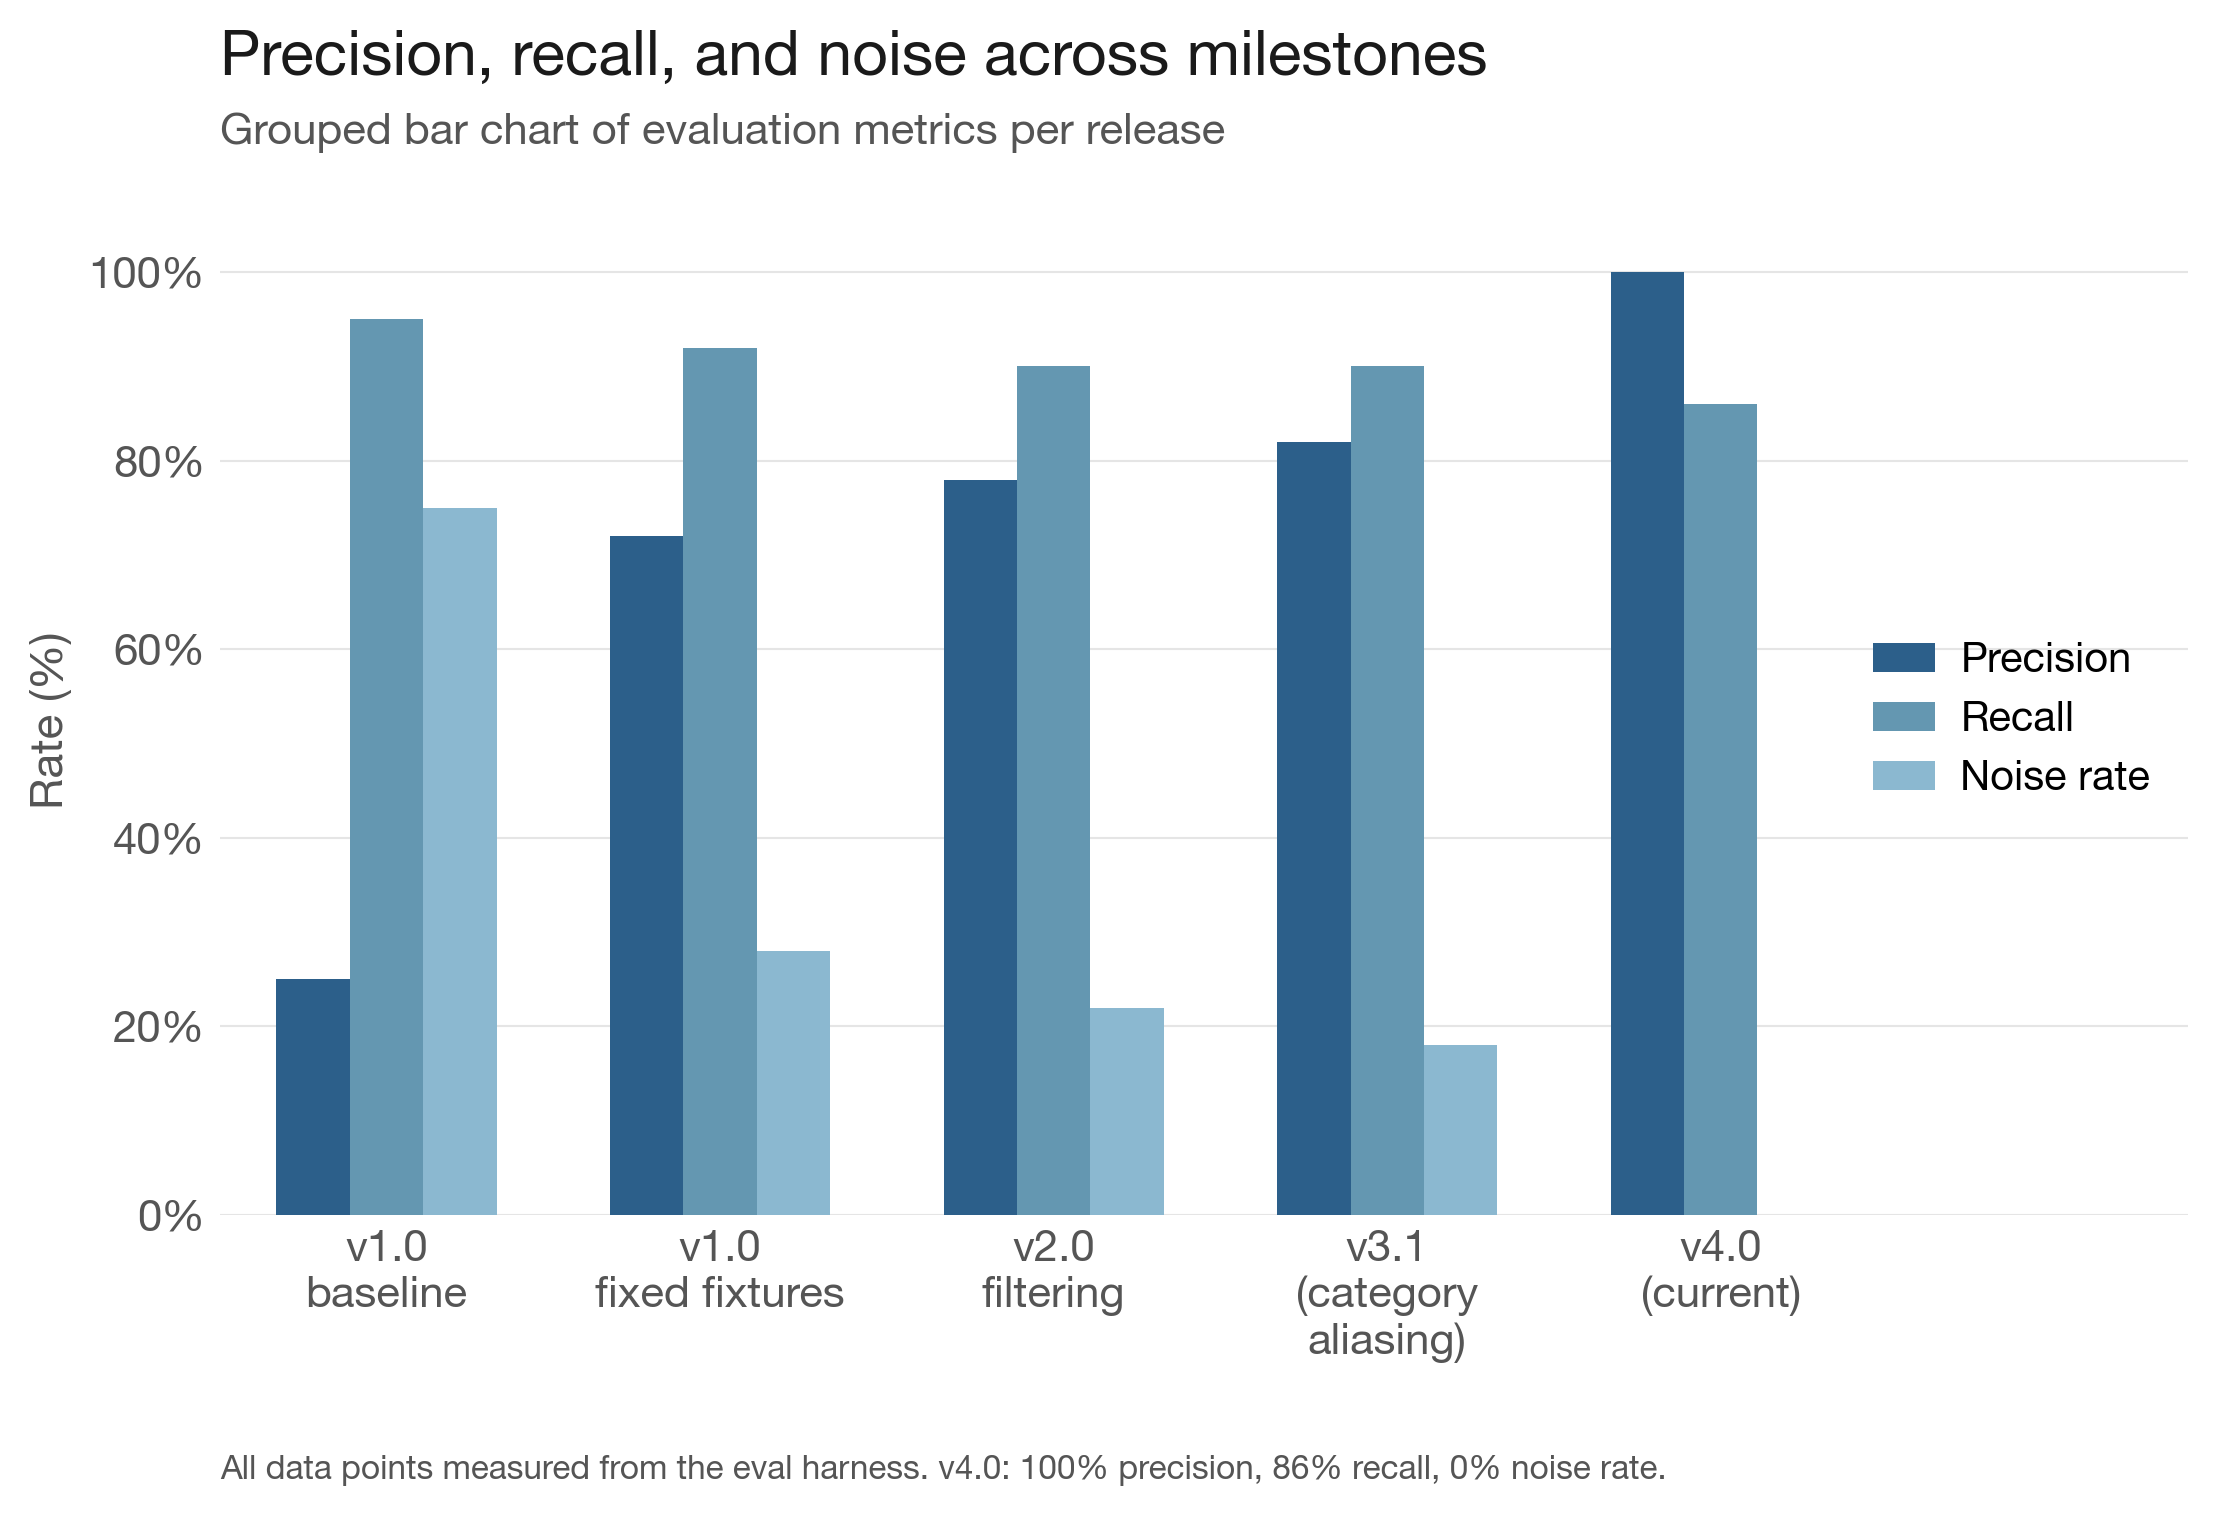
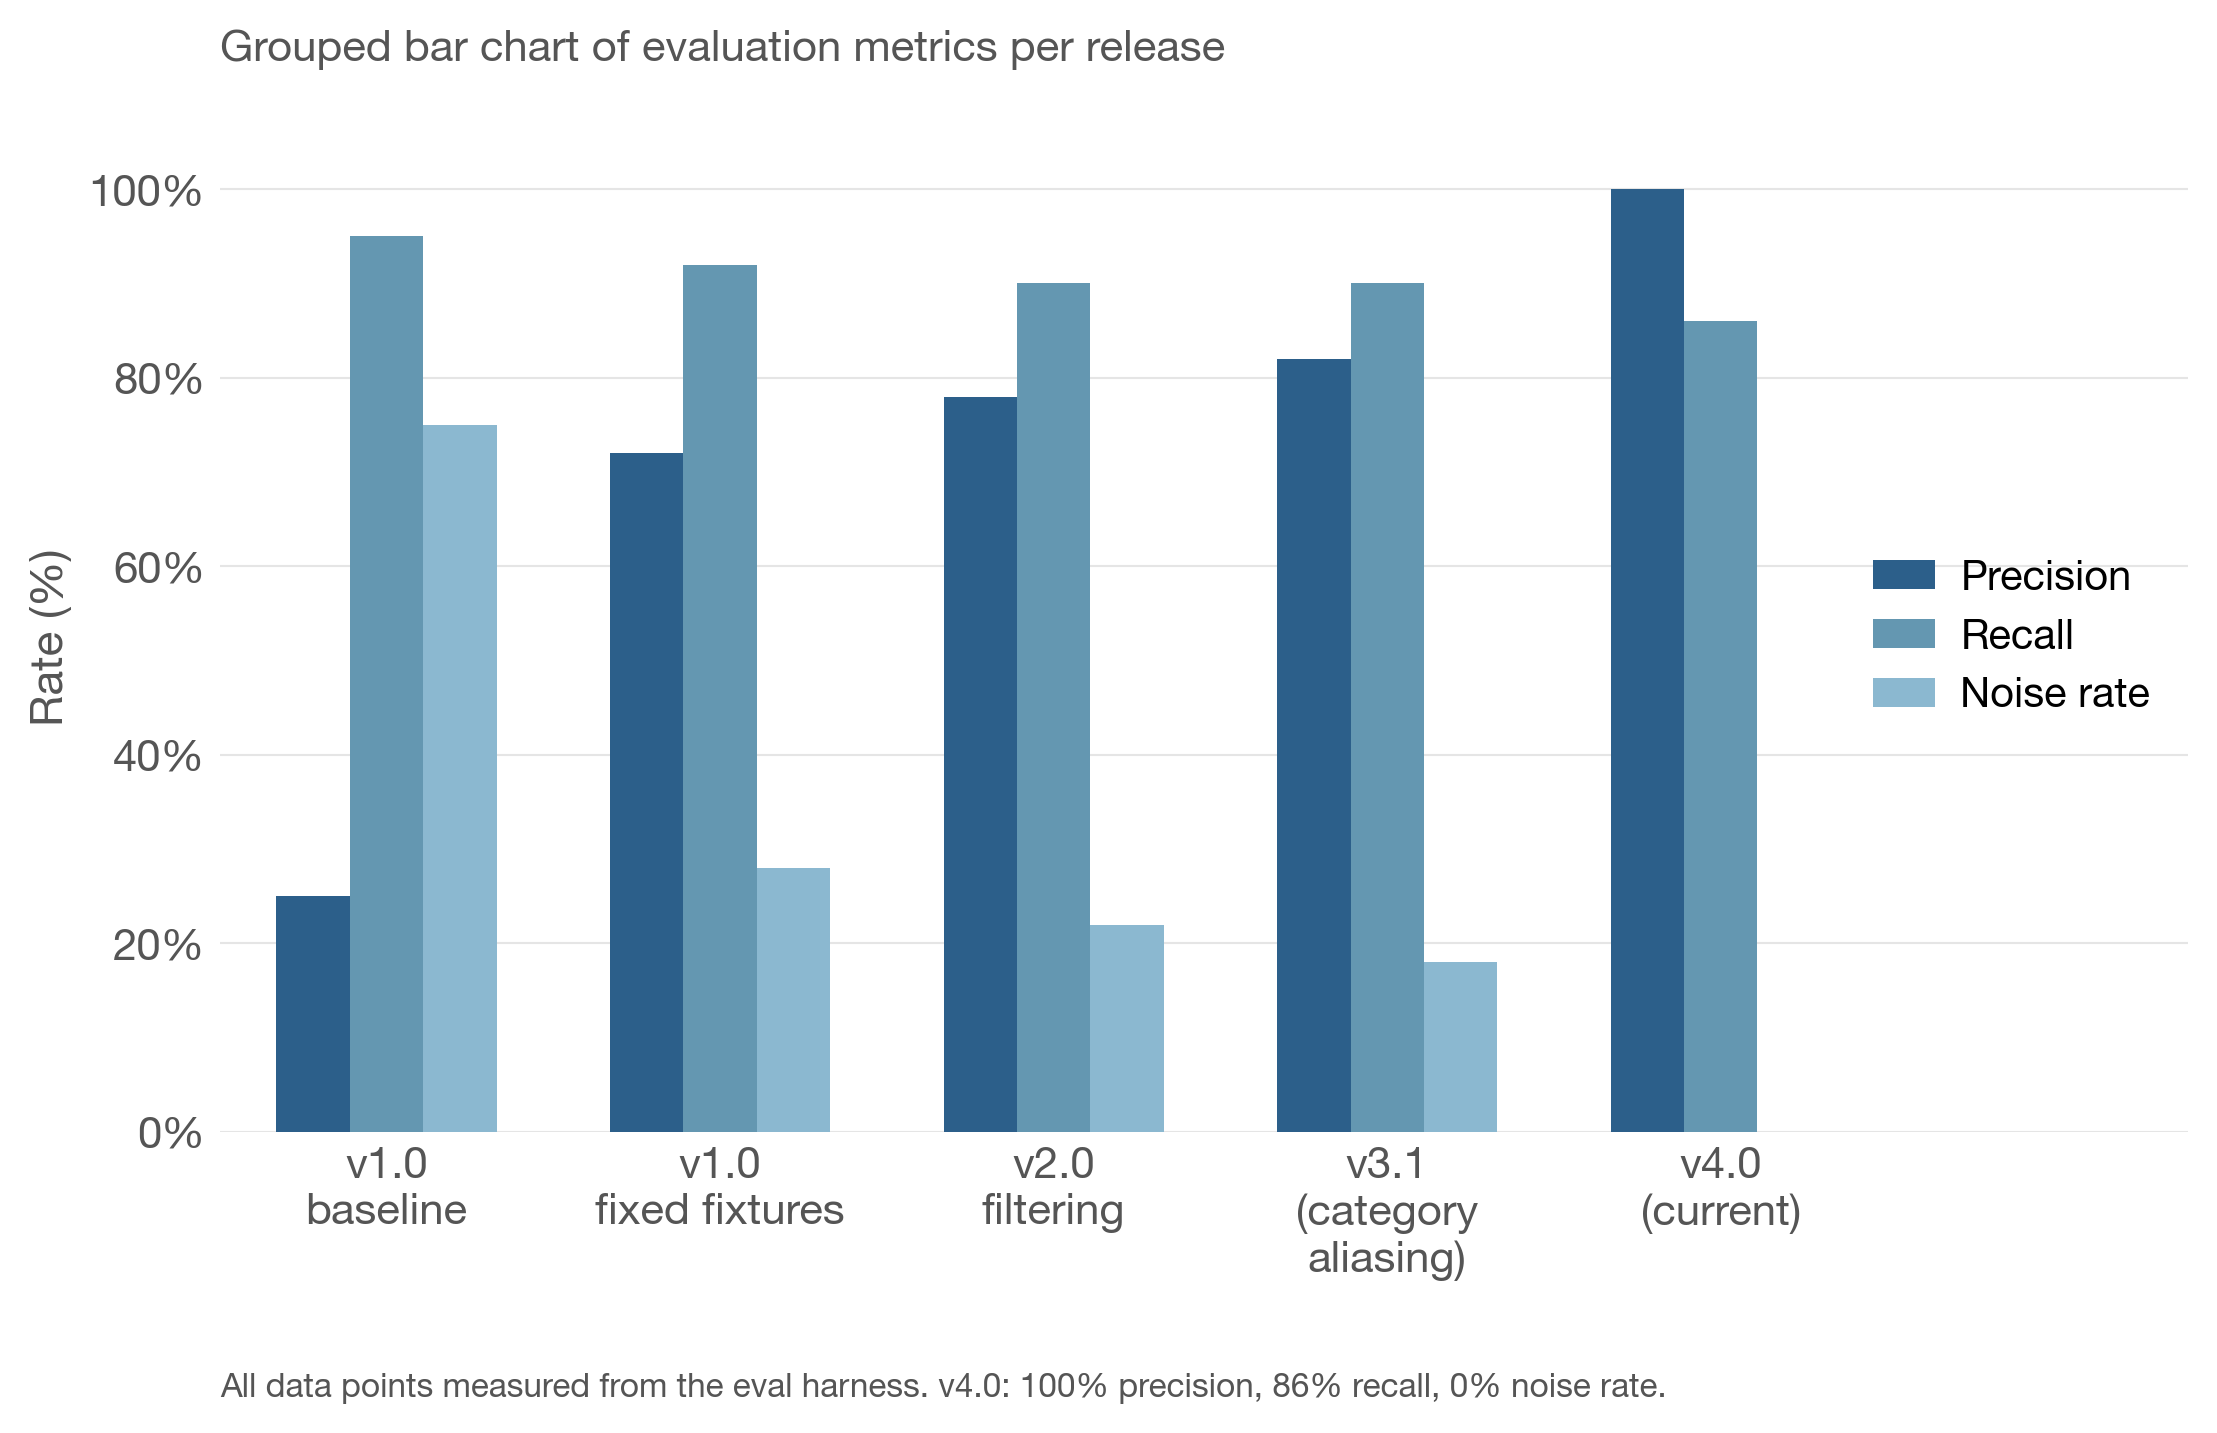
Add metric breakdown chart to README

diff --git a/docs/generate_charts.py b/docs/generate_charts.py
@@ -330,11 +330,7 @@ def fig3_metric_breakdown():
     )
 
     _setup(ax)
-    _title(
-        fig,
-        "Precision, recall, and noise across milestones",
-        "Grouped bar chart of evaluation metrics per release",
-    )
+    _title(fig, "", "Grouped bar chart of evaluation metrics per release")
 
     ax.set_xticks(x)
     ax.set_xticklabels(milestones)

diff --git a/README.md b/README.md
@@ -8,6 +8,10 @@
   <a href="./docs"><img src="https://img.shields.io/badge/Documentation-000?logo=googledocs&logoColor=FFE165&style=for-the-badge" alt="Documentation"></a>
 </div>
 
+<p align="left">
+  <img src="./docs/assets/metric-breakdown.png" width="680" alt="Review quality vs context depth">
+</p>
+
 # Context-Aware AI Code Review Agent
 
 Snif is a code review agent that understands your codebase. It indexes the
